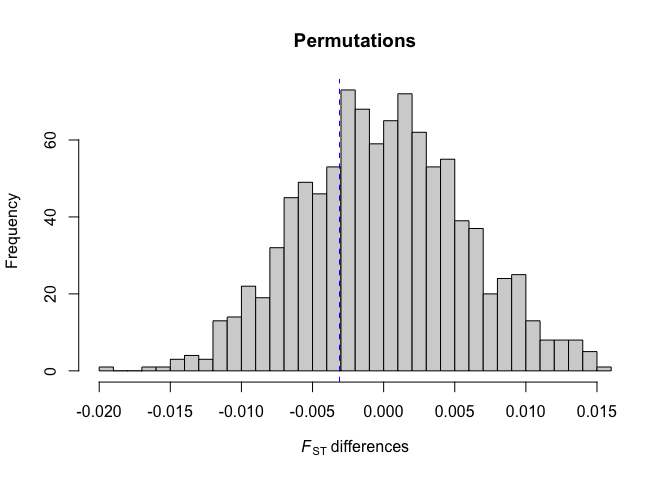
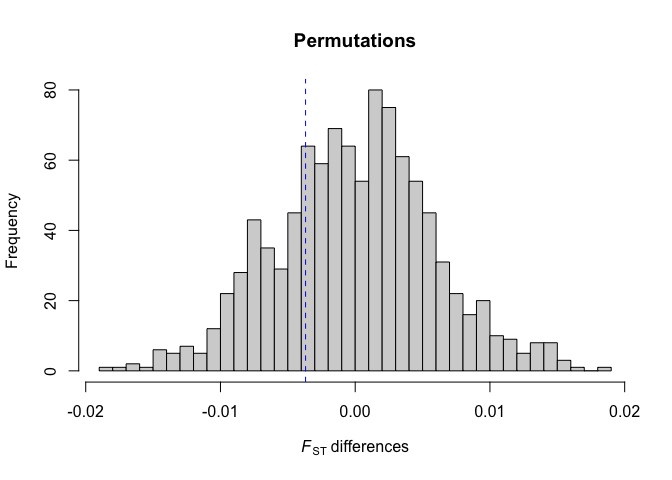
edit

diff --git a/Puyallup-conservation-measures.md b/Puyallup-conservation-measures.md
@@ -144,13 +144,13 @@ the mean FST from multiple loci.
 mean(Fst_A, na.rm=TRUE)
 ```
 
-    ## [1] 0.02446115
+    ## [1] 0.02442945
 
 ``` r
 mean(Fst_B, na.rm=TRUE)
 ```
 
-    ## [1] 0.02135876
+    ## [1] 0.02074568
 
 Hopefully these FST are different. Let’s plot the distributions with the
 means below the x-axis.
@@ -177,17 +177,17 @@ mean(Fst_B, na.rm=TRUE) -
   mean(Fst_A, na.rm=TRUE)
 ```
 
-    ## [1] -0.003102384
+    ## [1] -0.003683772
 
 Hopefully this is negative and small, which would indicate a slight
 decrease of genetic divergence between White R and Puyallup River that
 would be expected to occur by chance alone.
 
 Now let’s generate a null distribution of our test statistic. We do this
-by (1) shuffling the per-locus FSTs, (2) estimating FSTs from the
-shuffled samples, (3) computing the mean FST of these shuffled samples,
-(4) computing the difference of the 2 mean FSTs i.e., the permuted test
-statistic, and (5) repeat steps 1-4 1,000 times.
+by (1) shuffling the per-locus FSTs, (2) computing the mean FST of these
+shuffled samples, (3) computing the difference of the mean FSTs (i.e.,
+the permuted test statistic), and (4) repeating steps 1-3 at least 1,000
+times.
 
 ``` r
 AB <- 
@@ -215,7 +215,7 @@ obsAB <-
 mean(abs(c(permuteAB, obsAB)) >= abs(obsAB))
 ```
 
-    ## [1] 0.5894106
+    ## [1] 0.5094905
 
 ``` r
 hist(c(permuteAB, obsAB), xlab=expression(italic(F)[ST]~differences), breaks=30, main="Permutations")
@@ -271,19 +271,19 @@ Fst_C <-
 mean(Fst_A, na.rm=TRUE)
 ```
 
-    ## [1] 0.02446115
+    ## [1] 0.02442945
 
 ``` r
 mean(Fst_B, na.rm=TRUE)
 ```
 
-    ## [1] 0.02135876
+    ## [1] 0.02074568
 
 ``` r
 mean(Fst_C, na.rm=TRUE)
 ```
 
-    ## [1] -0.001330727
+    ## [1] 0.0008845873
 
 ``` r
 hist(Fst_A, breaks=30, xlim=c(min(c(Fst_A, Fst_B, Fst_C), na.rm=TRUE)*1.2, max(c(Fst_A, Fst_B, Fst_C), na.rm=TRUE)*1.1), main="White R H vs. Puyallup R\n2021 (simulated)", sub=mean(Fst_A, na.rm=TRUE) |> round(digits=4), xlab=expression(italic(F)[ST]))
@@ -308,7 +308,7 @@ mean(Fst_C, na.rm=TRUE) -
   mean(Fst_A, na.rm=TRUE)
 ```
 
-    ## [1] -0.02579187
+    ## [1] -0.02354486
 
 ``` r
 BC <- 
